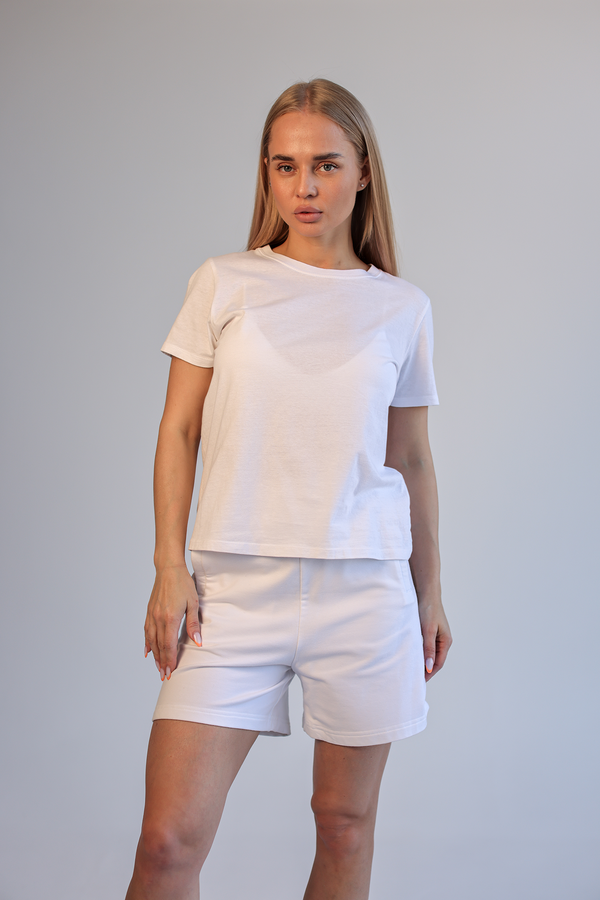
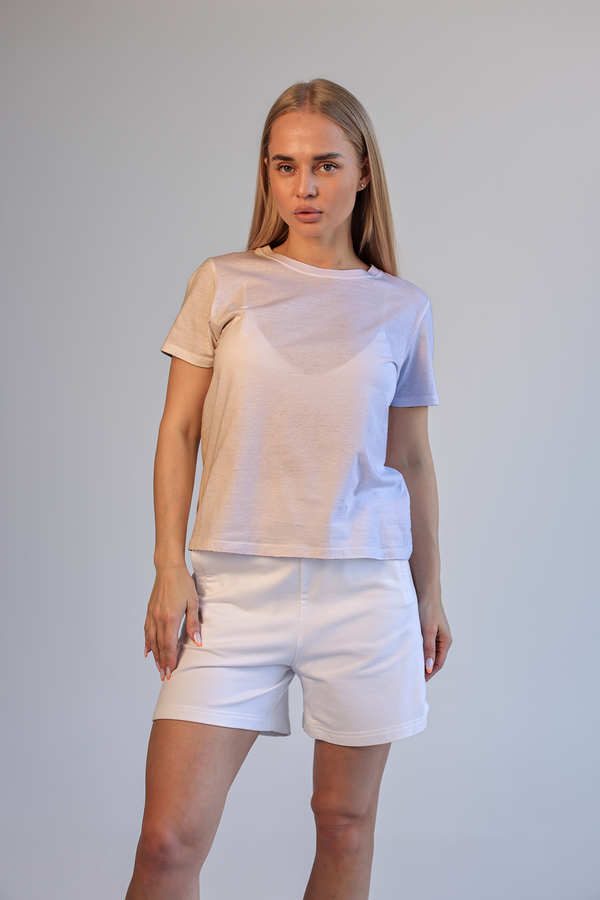
Add files via upload

Changed region(s): [[0.27, 0.2489, 0.72, 0.6222]]

diff --git a/server.py b/server.py
@@ -13,6 +13,20 @@ app.add_middleware(CORSMiddleware, allow_origins=["*"], allow_methods=["*"], all
 
 MOCKUP_DIR = os.path.join(os.path.dirname(__file__), "mockup_package")
 
+def soft_light(b,bl):
+    return np.clip(np.where(bl<=0.5, b-(1-2*bl)*b*(1-b),
+        b+(2*bl-1)*(np.where(b<=0.25,((16*b-12)*b+4)*b,np.sqrt(np.maximum(b,0)))-b)),0,1)
+def blend_multiply(b,bl): return b*bl
+def blend_screen(b,bl):   return 1-(1-b)*(1-bl)
+def blend_overlay(b,bl):  return np.where(b<=0.5,2*b*bl,1-2*(1-b)*(1-bl))
+
+BLEND_FNS = {
+    "BlendMode.SOFT_LIGHT": soft_light,
+    "BlendMode.MULTIPLY":   blend_multiply,
+    "BlendMode.SCREEN":     blend_screen,
+    "BlendMode.OVERLAY":    blend_overlay,
+}
+
 class MockupEngine:
     def __init__(self, mockup_dir):
         print("Loading mockup package...")
@@ -23,15 +37,35 @@ class MockupEngine:
         self.canvas_h = pkg["canvas"]["height"]
         warp = pkg["warp"]
 
-        self.shirt_arr  = np.array(Image.open(os.path.join(mockup_dir, "shirt_base.png")).convert("RGB")).astype(np.float32)/255
-        self.mask_arr   = np.array(Image.open(os.path.join(mockup_dir, "tshirt_mask.png")).convert("L")).astype(np.float32)/255
-        self.shirt_full_mask = np.array(Image.open(os.path.join(mockup_dir, "shirt_full_mask.png")).convert("L")).astype(np.float32)/255
+        # Base shirt photo (Background layer, clean)
+        self.shirt_arr = np.array(
+            Image.open(os.path.join(mockup_dir, "shirt_base.png")).convert("RGB")
+        ).astype(np.float32) / 255
 
+        # Mask for design placement (print zone)
+        self.mask_arr = np.array(
+            Image.open(os.path.join(mockup_dir, "tshirt_mask.png")).convert("L")
+        ).astype(np.float32) / 255
+
+        # Full shirt mask (for recoloring)
+        self.shirt_full_mask = np.array(
+            Image.open(os.path.join(mockup_dir, "shirt_full_mask.png")).convert("L")
+        ).astype(np.float32) / 255
+        self.shirt_full_mask_3d = self.shirt_full_mask[:,:,np.newaxis]
+
+        # Overlay layers with alpha
+        self.overlays = []
+        for ov in pkg["overlays"]:
+            img = np.array(
+                Image.open(os.path.join(mockup_dir, ov["file"])).convert("RGBA")
+            ).astype(np.float32) / 255
+            self.overlays.append((img, ov["opacity"], ov["blend_mode"]))
+
+        # Warp setup
         src_w = warp["bounds"]["right"]
         src_h = warp["bounds"]["bottom"]
         self.src_w = src_w
         self.src_h = src_h
-
         tx = warp["transform"]
         canvas_corners = np.float32([[tx[0],tx[1]],[tx[2],tx[3]],[tx[4],tx[5]],[tx[6],tx[7]]])
         src_corners    = np.float32([[0,0],[src_w,0],[src_w,src_h],[0,src_h]])
@@ -46,45 +80,42 @@ class MockupEngine:
         displaced = np.column_stack([mx.ravel(),my.ravel()])
 
         print("Precomputing warp map...")
-        cw,ch = self.canvas_w,self.canvas_h
-        ys,xs = np.mgrid[0:ch,0:cw]
-        cp  = np.column_stack([xs.ravel().astype(np.float64),ys.ravel().astype(np.float64)])
-        cp_h = np.concatenate([cp,np.ones((len(cp),1))],axis=1)
-        sp_h = (H_inv@cp_h.T).T
+        cw, ch = self.canvas_w, self.canvas_h
+        ys, xs = np.mgrid[0:ch, 0:cw]
+        cp  = np.column_stack([xs.ravel().astype(np.float64), ys.ravel().astype(np.float64)])
+        cp_h = np.concatenate([cp, np.ones((len(cp),1))], axis=1)
+        sp_h = (H_inv @ cp_h.T).T
         src_x = sp_h[:,0]/sp_h[:,2]
         src_y = sp_h[:,1]/sp_h[:,2]
         in_r  = (src_x>=-300)&(src_x<=src_w+300)&(src_y>=-300)&(src_y<=src_h+300)
         ridx  = np.where(in_r)[0]
-        rsp   = np.column_stack([src_x[in_r],src_y[in_r]])
-        self._rx   = griddata(displaced,reg_x,rsp,method="cubic")
-        self._ry   = griddata(displaced,reg_y,rsp,method="cubic")
+        rsp   = np.column_stack([src_x[in_r], src_y[in_r]])
+        self._rx   = griddata(displaced, reg_x, rsp, method="cubic")
+        self._ry   = griddata(displaced, reg_y, rsp, method="cubic")
         self._ridx = ridx
         print("Ready.")
 
-    def recolor(self, shirt, color_hex):
-        """Recolor shirt using luminance * target color."""
-        r = int(color_hex[1:3],16)/255
-        g = int(color_hex[3:5],16)/255
-        b = int(color_hex[5:7],16)/255
-        lum = 0.299*shirt[:,:,0] + 0.587*shirt[:,:,1] + 0.114*shirt[:,:,2]
-        m = self.shirt_full_mask > 0.1
-        result = shirt.copy()
-        result[:,:,0] = np.where(m, lum*r, shirt[:,:,0])
-        result[:,:,1] = np.where(m, lum*g, shirt[:,:,1])
-        result[:,:,2] = np.where(m, lum*b, shirt[:,:,2])
-        return result
-
     def render(self, design_img, x=0, y=0, w=None, h=None, color="#ffffff"):
-        sw,sh = int(self.src_w),int(self.src_h)
-        if w is None: w=sw
-        if h is None: h=sh
+        sw, sh = int(self.src_w), int(self.src_h)
+        if w is None: w = sw
+        if h is None: h = sh
 
-        # Recolor shirt if needed
-        shirt = self.shirt_arr if color=="#ffffff" else self.recolor(self.shirt_arr, color)
+        # Step 1: recolor shirt
+        shirt = self.shirt_arr.copy()
+        if color.lower() != "#ffffff":
+            r = int(color[1:3],16)/255
+            g = int(color[3:5],16)/255
+            b = int(color[5:7],16)/255
+            lum = 0.299*shirt[:,:,0]+0.587*shirt[:,:,1]+0.114*shirt[:,:,2]
+            m = self.shirt_full_mask > 0.1
+            shirt[:,:,0] = np.where(m, lum*r, shirt[:,:,0])
+            shirt[:,:,1] = np.where(m, lum*g, shirt[:,:,1])
+            shirt[:,:,2] = np.where(m, lum*b, shirt[:,:,2])
 
+        # Step 2: warp design onto shirt
         src_canvas = Image.new("RGBA",(sw,sh),(0,0,0,0))
         src_canvas.paste(design_img.resize((w,h),Image.LANCZOS),(x,y))
-        dw,dh = src_canvas.size
+        dw, dh = src_canvas.size
         design_arr = np.array(src_canvas).astype(np.float32)
 
         nx = self._rx/self.src_w*dw
@@ -93,12 +124,23 @@ class MockupEngine:
 
         warped = np.zeros((self.canvas_h,self.canvas_w,4),dtype=np.float32)
         vi = np.where(valid)[0]; fi = self._ridx[vi]
-        warped[fi//self.canvas_w,fi%self.canvas_w] = design_arr[ny[valid].astype(int),nx[valid].astype(int)]
-        warped[:,:,3] = warped[:,:,3]*self.mask_arr
+        warped[fi//self.canvas_w, fi%self.canvas_w] = design_arr[
+            ny[valid].astype(int), nx[valid].astype(int)]
+        warped[:,:,3] = warped[:,:,3] * self.mask_arr
 
         alpha      = warped[:,:,3:4]/255
         design_rgb = warped[:,:,:3]/255
         result     = shirt*(1-alpha) + shirt*design_rgb*alpha
+
+        # Step 3: apply overlay layers ONLY inside shirt mask
+        for img, opacity, blend_mode in self.overlays:
+            fn = BLEND_FNS.get(blend_mode)
+            if fn:
+                layer_alpha = img[:,:,3:4]
+                layer_rgb   = img[:,:,:3]
+                blended = fn(result, layer_rgb)
+                effective = opacity * layer_alpha * self.shirt_full_mask_3d
+                result = result*(1-effective) + blended*effective
 
         return Image.fromarray((np.clip(result,0,1)*255).astype(np.uint8))
 
@@ -121,15 +163,15 @@ async def render_mockup(
     except:
         raise HTTPException(400,"Could not read image")
 
-    result = engine.render(design,x=x,y=y,w=w,h=h,color=color)
+    result = engine.render(design, x=x, y=y, w=w, h=h, color=color)
     buf = io.BytesIO()
-    result.save(buf,format="PNG",optimize=True)
+    result.save(buf, format="PNG", optimize=True)
     buf.seek(0)
-    return Response(content=buf.read(),media_type="image/png",
+    return Response(content=buf.read(), media_type="image/png",
                     headers={"Content-Disposition":"attachment; filename=mockup.png"})
 
 @app.get("/health")
 def health():
     return {"status":"ok"}
 
-app.mount("/",StaticFiles(directory=os.path.dirname(__file__),html=True),name="static")
+app.mount("/", StaticFiles(directory=os.path.dirname(__file__), html=True), name="static")
